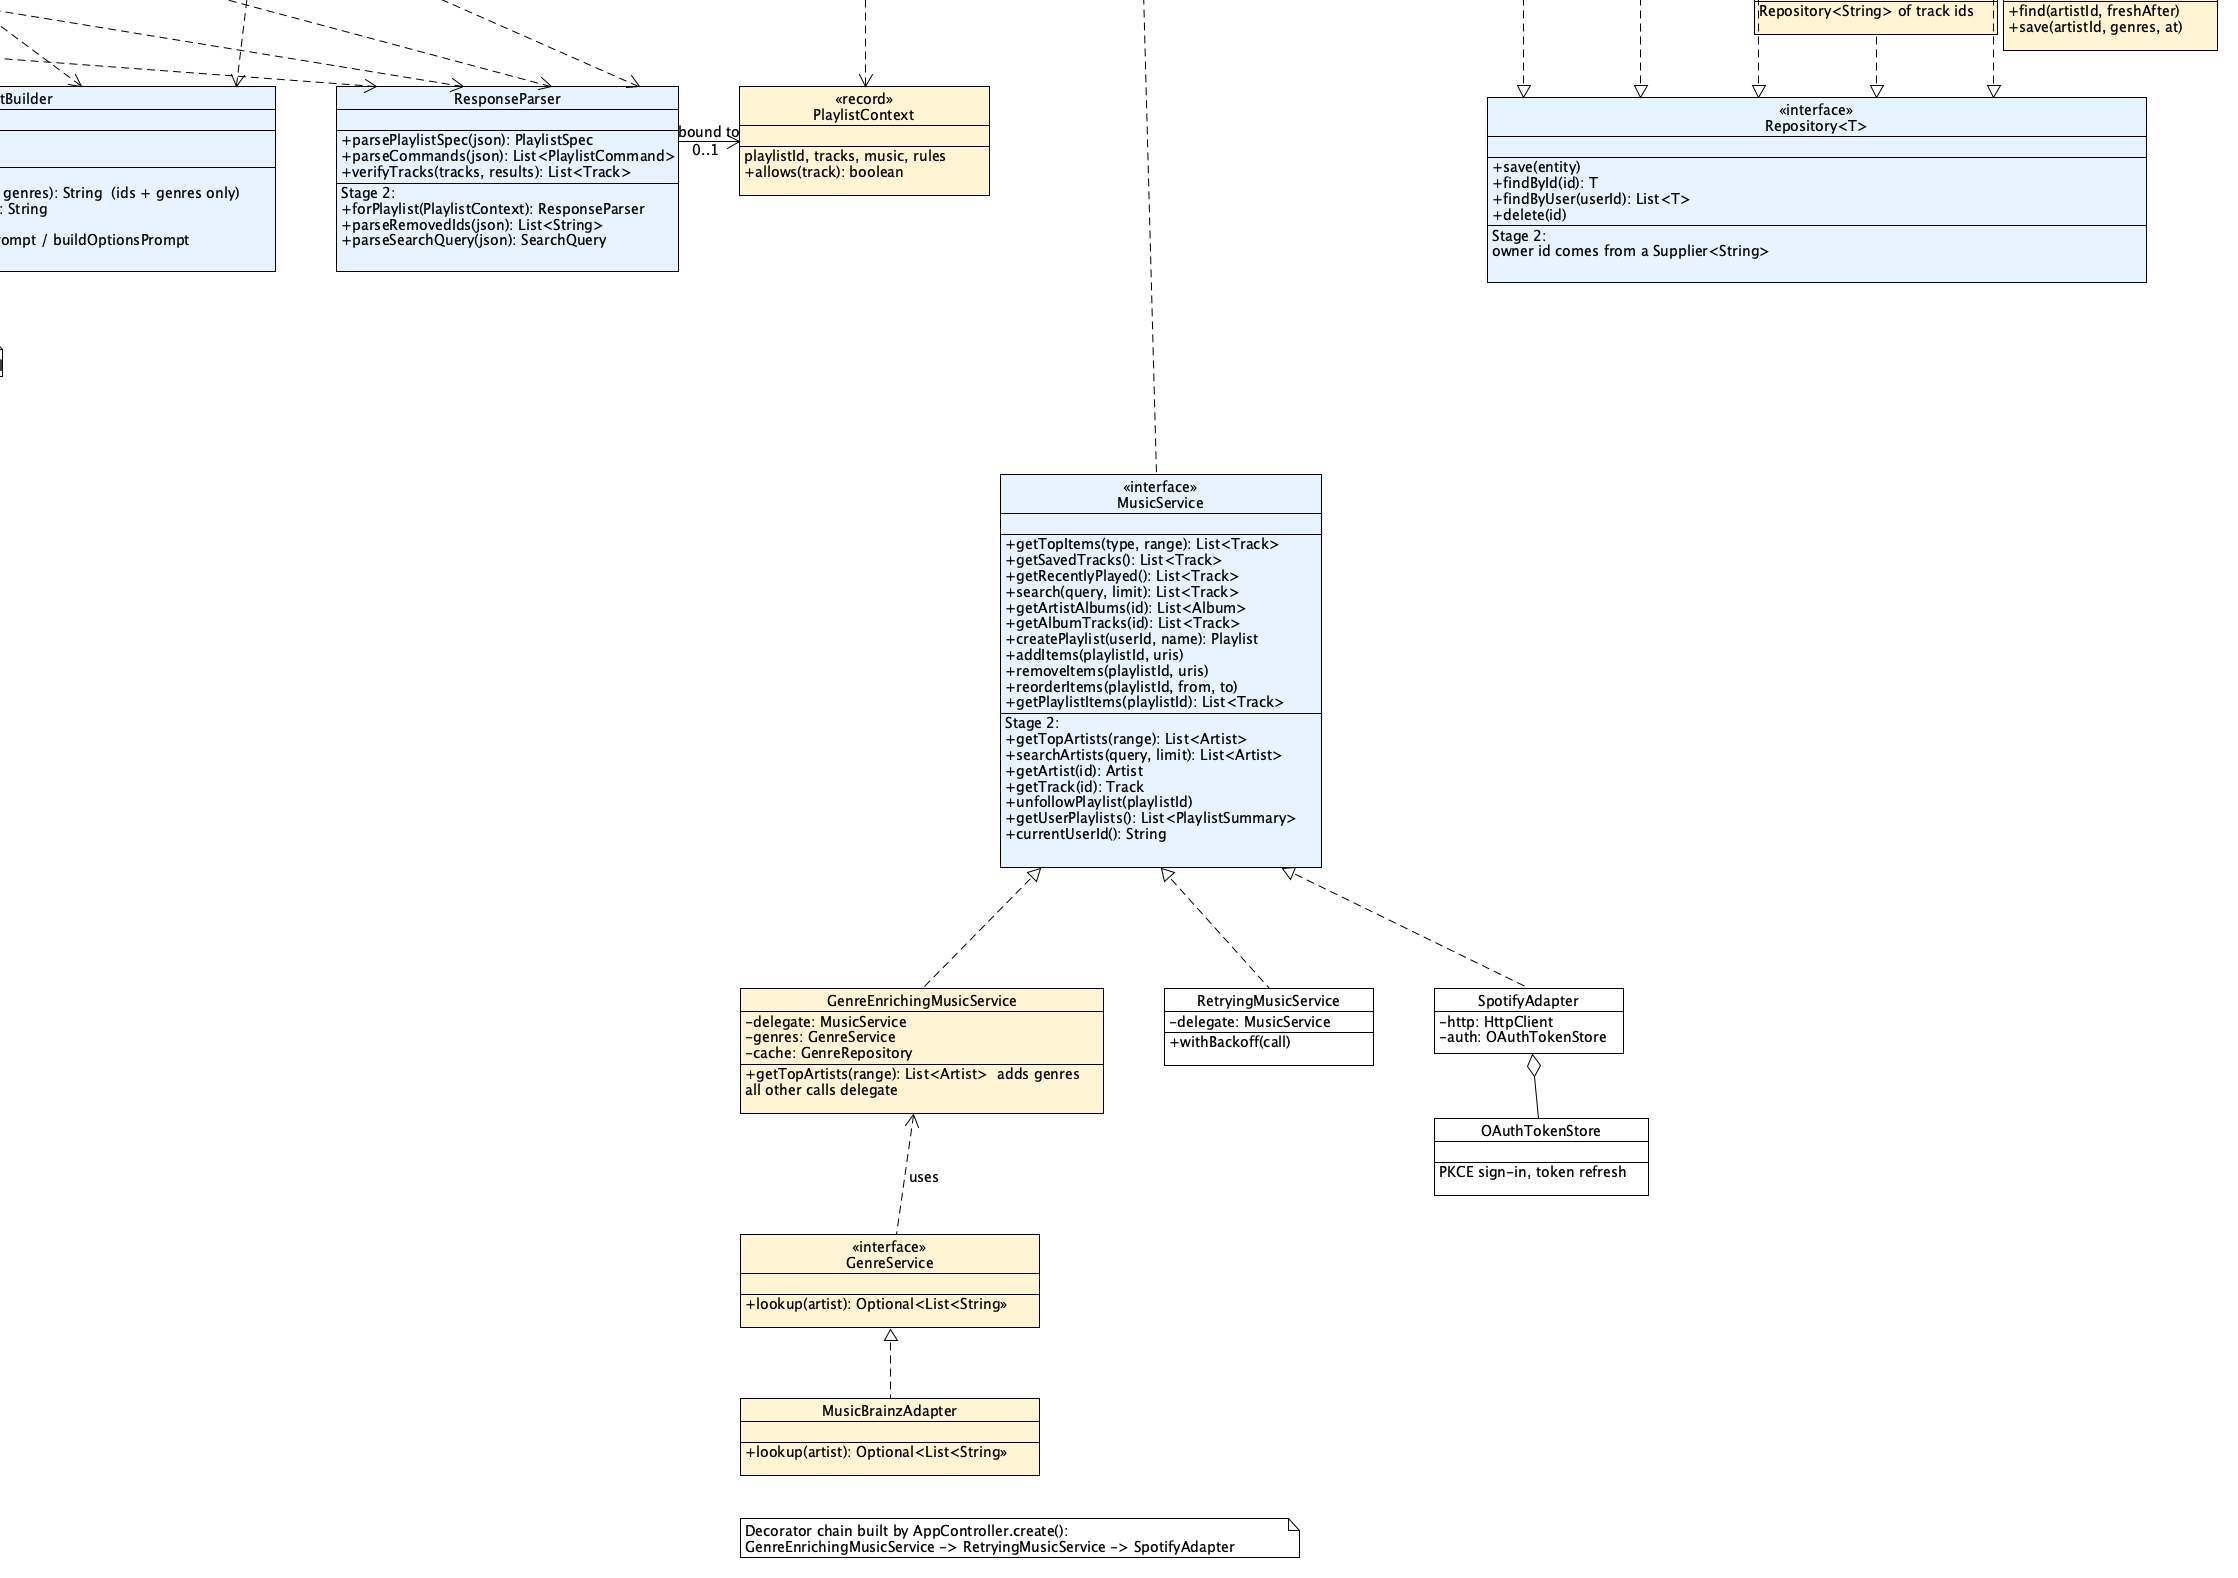
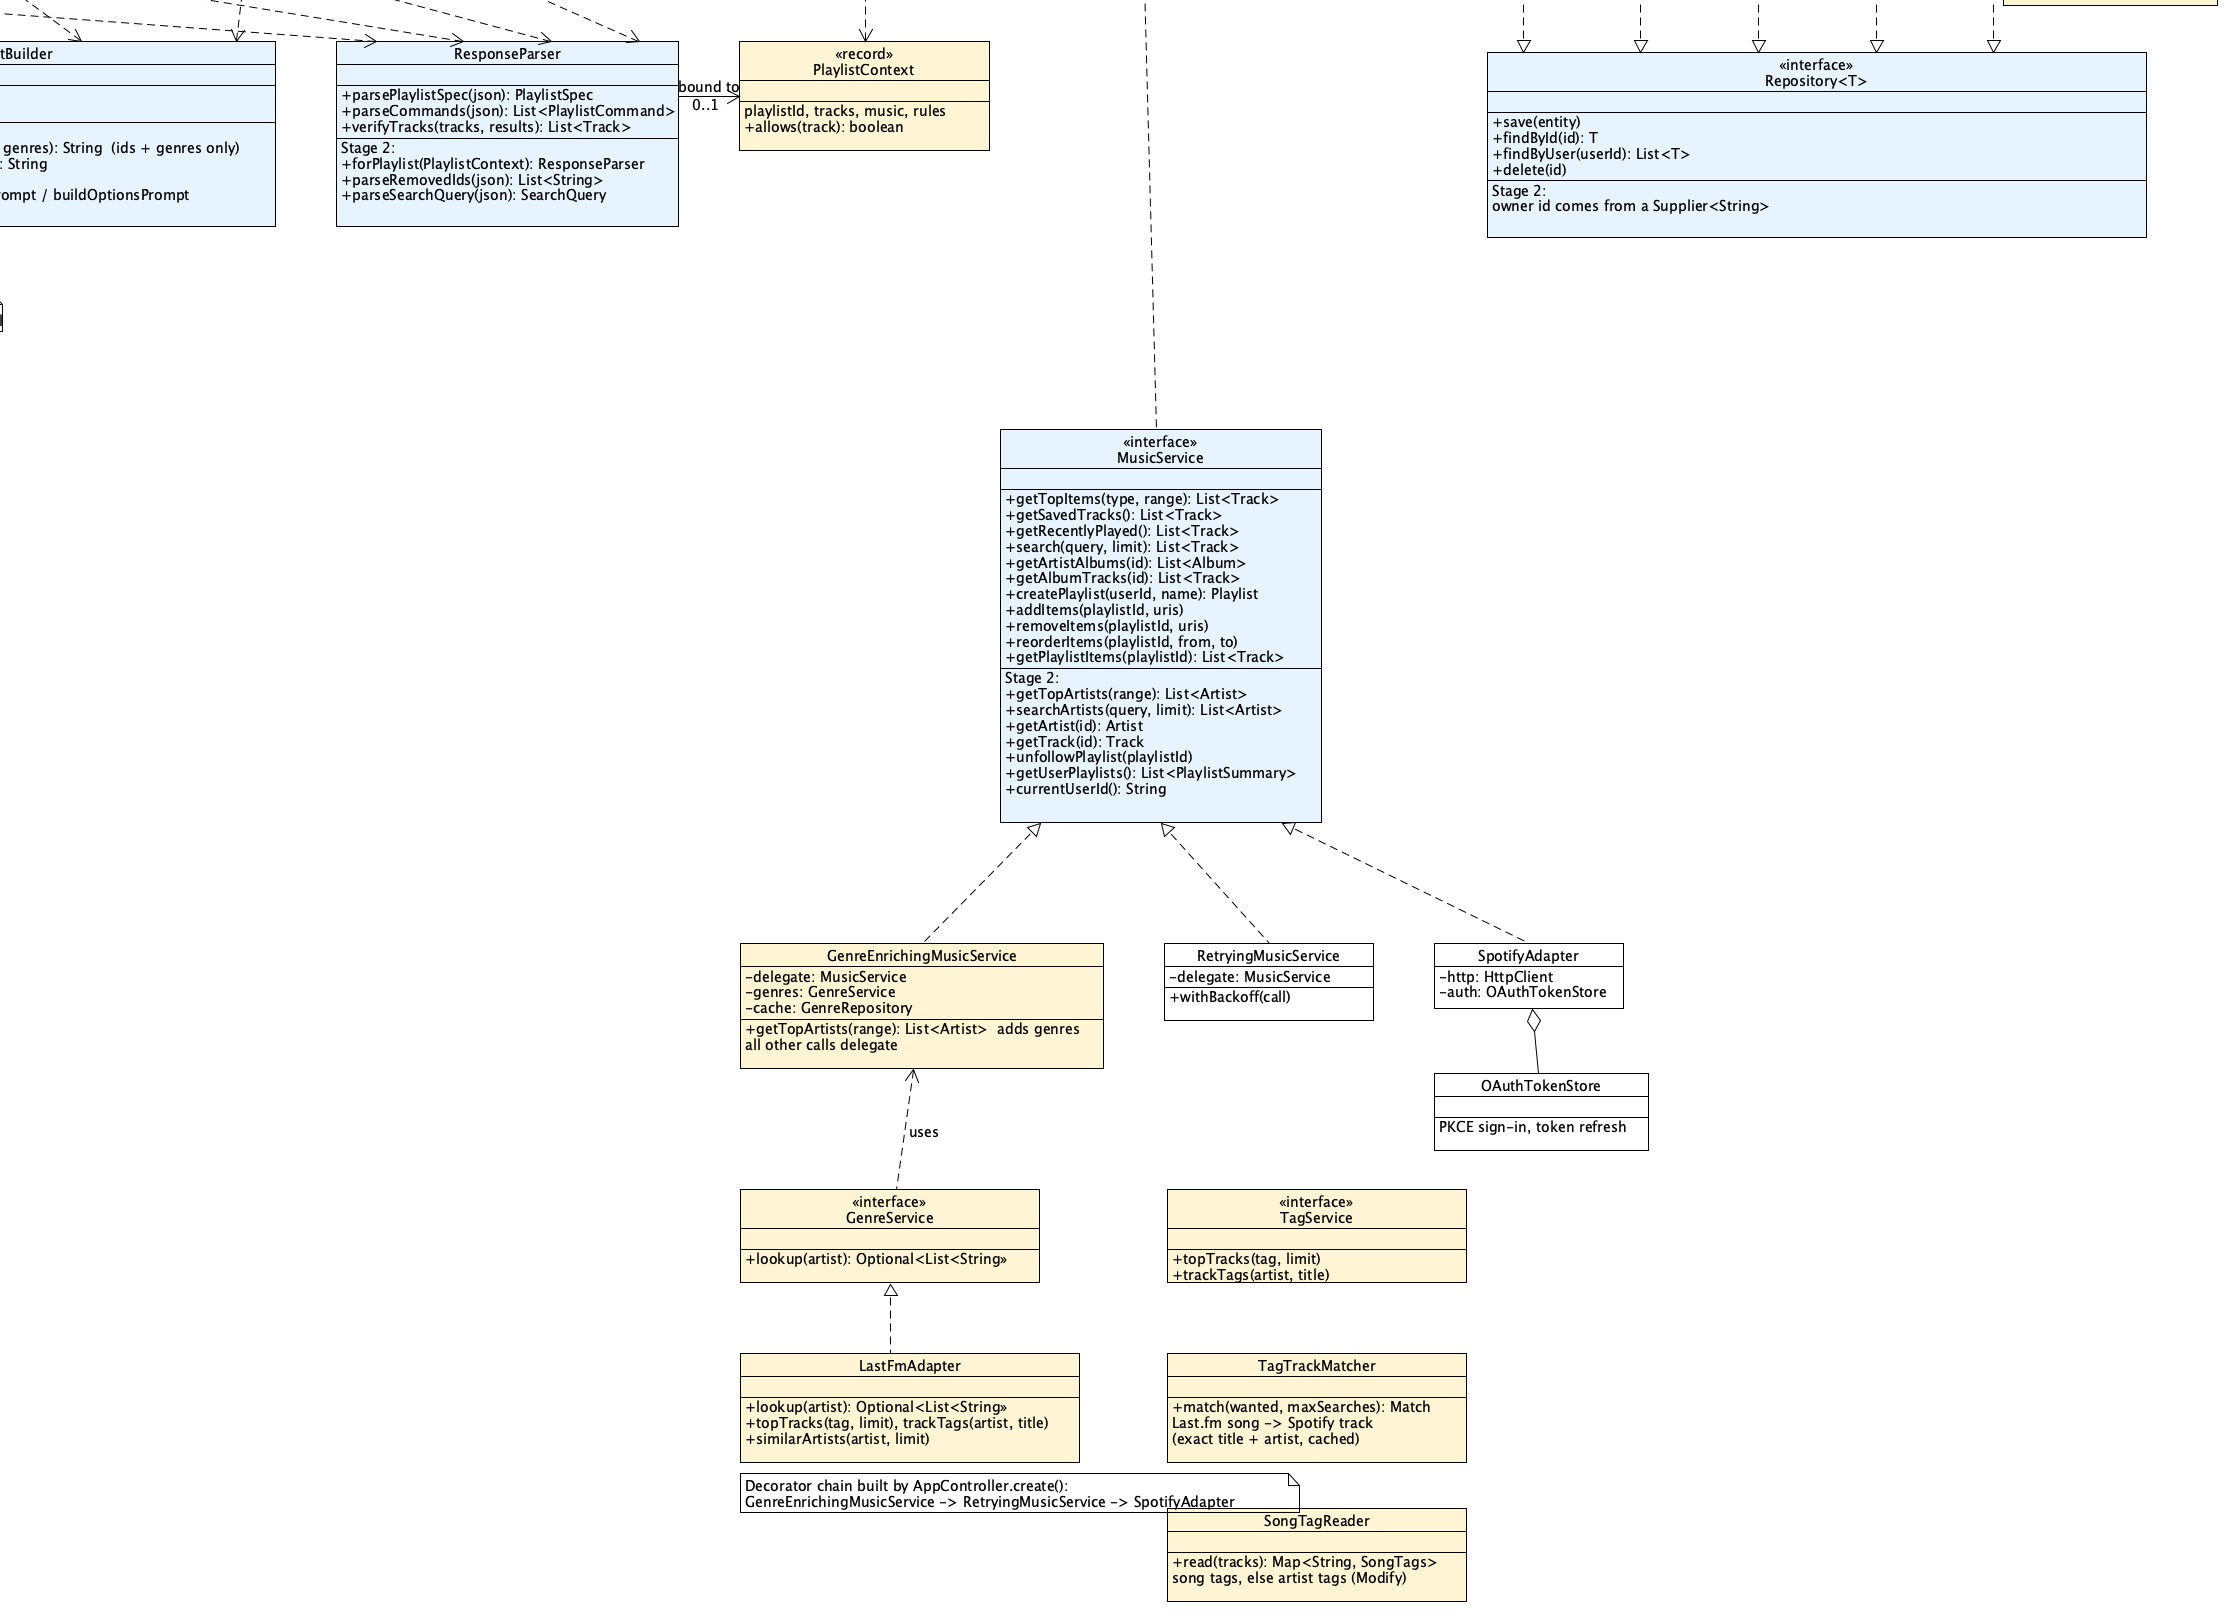
UML: LastFmAdapter replaces MusicBrainzAdapter; add TagService, TagTrackMatcher, SongTagReader

diff --git a/docs/diagrams/README.md b/docs/diagrams/README.md
@@ -25,13 +25,13 @@ authoritative diagrams for the report.
 
 | File | Diagram | What changed in Stage 2 |
 |------|---------|-------------------------|
-| `MusicMind_ClassArchitecture.uxf` | Class diagram: application and agent architecture | Rebuilt for readability. Every Stage 1 class and member is kept; Stage 2 members are listed under a "Stage 2:" line in the same box. New classes: `GenreEnrichingMusicService` (Decorator), `GenreService` / `MusicBrainzAdapter` (Adapter), `GoalFitReviewer`, `PlaylistEditor`, `PlaylistContext`, `Retrieval`, `TopItems`, `NegotiationHandler`, `Negotiator`, `RunContext`, `RunServices`, `StrategySelector`, `BatchCommand`, `RestoreSnapshotCommand`, `DeletePlaylistCommand`, `CandidateRepository`, `GenreRepository`. Pattern relations: `RecommendationEngine` holds a `RecommendationStrategy` and a `StrategySelector` (which selects the strategy); `PlaylistManager` holds its `PlaylistCommand` history; `ToolManager` holds its `Tool`s; `MusicAgentFacade` reaches `PlaylistManager` through `CreateSupport` and creates the `AgentSession` that runs the `SessionState` chain. `Planner`, `GoalFitReviewer`, `PlaylistEditor` and `ExplanationService` use `PromptBuilder` and `ResponseParser`; `Retrieval`, `PlaylistContext` and `TopItems` are linked to their users. Additive members on `AppController`, `MusicAgentFacade`, `MusicService`, `MemoryManager`, `PlaylistManager`, `PlaylistCommand`, `Planner`, `ConstraintChecker`, `RecommendationEngine`, `PromptBuilder`, `ResponseParser`, `AgentSession`, `SessionState`. |
+| `MusicMind_ClassArchitecture.uxf` | Class diagram: application and agent architecture | Rebuilt for readability. Every Stage 1 class and member is kept; Stage 2 members are listed under a "Stage 2:" line in the same box. New classes: `GenreEnrichingMusicService` (Decorator), `GenreService` and `TagService` / `LastFmAdapter` (Adapter; MusicBrainz until Nov 5), `TagTrackMatcher`, `SongTagReader`, `GoalFitReviewer`, `PlaylistEditor`, `PlaylistContext`, `Retrieval`, `TopItems`, `NegotiationHandler`, `Negotiator`, `RunContext`, `RunServices`, `StrategySelector`, `BatchCommand`, `RestoreSnapshotCommand`, `DeletePlaylistCommand`, `CandidateRepository`, `GenreRepository`. Pattern relations: `RecommendationEngine` holds a `RecommendationStrategy` and a `StrategySelector` (which selects the strategy); `PlaylistManager` holds its `PlaylistCommand` history; `ToolManager` holds its `Tool`s; `MusicAgentFacade` reaches `PlaylistManager` through `CreateSupport` and creates the `AgentSession` that runs the `SessionState` chain. `Planner`, `GoalFitReviewer`, `PlaylistEditor` and `ExplanationService` use `PromptBuilder` and `ResponseParser`; `Retrieval`, `PlaylistContext` and `TopItems` are linked to their users. Additive members on `AppController`, `MusicAgentFacade`, `MusicService`, `MemoryManager`, `PlaylistManager`, `PlaylistCommand`, `Planner`, `ConstraintChecker`, `RecommendationEngine`, `PromptBuilder`, `ResponseParser`, `AgentSession`, `SessionState`. |
 | `MusicMind_Domain.uxf` | Class diagram: domain model | New types `TopItems`, `PlaylistSummary`, `SnapshotInfo`, `TrendReport`, `RangeChange`, `SearchQuery`, `FeasibilityReport`, `Relaxation`, `DecisionTrace`; new fields such as `PlaylistSpec.blockedTracks`, `AgentPlan.searchTerms` / `seedGenres`, `AgentRequest.constraints` / `useCandidates`, `Track.artistNames`, `ListeningProfile.savedTrackIds` / `summary` / `range`, `ValidationResult.offending`; the two enumerations `RequestKind` and `Verdict` are drawn. |
 | `MusicMind_UseCase.uxf` | Use-case diagram | New UC14 Delete Playlist; UC07 now includes UC12 (an infeasible edit is negotiated); UC05 no longer uses the LLM (F4 never calls it). |
-| `MusicMind_SD01_CreatePlaylist.uxf` | Sequence: create playlist | Drawn as the State pattern runs it: Planning, Retrieving (with the goal review that sends only track ids and MusicBrainz genres), Selecting (pick review loop), Validating (loop back), Executing, Done. Shows the F11 negotiation handler, the token-expiry resume and the lines `AgentSession.run()` owns. |
+| `MusicMind_SD01_CreatePlaylist.uxf` | Sequence: create playlist | Drawn as the State pattern runs it: Planning, Retrieving (with the goal review that sends only track ids and Last.fm genres), Selecting (pick review loop), Validating (loop back), Executing, Done. Shows the F11 negotiation handler, the token-expiry resume and the lines `AgentSession.run()` owns. |
 | `MusicMind_SD02_ModifyPlaylist.uxf` | Sequence: modify playlist with undo | `PlaylistEditor` replaces the direct LLM and parser calls; adds the adjustment loop (re-plan when an edit would break a rule), the F11 choice, the snapshot saved before every modify and undo from the latest snapshot when the history is empty. |
-| `MusicMind_SD03_TasteProfile.uxf` | Sequence: view taste profile | Shows the stored profile (R5), genres from MusicBrainz through the decorator with its cache (R1, R18), `TopItems` and the labelled fallback summary. |
-| `MusicMind_SD04_Discover.uxf` | Sequence: discover music and give feedback | Preference merge, strategy choice, library tracks excluded, no LLM call; feedback goes from `AppController` straight to `MemoryManager`. |
+| `MusicMind_SD03_TasteProfile.uxf` | Sequence: view taste profile | Shows the stored profile (R5), genres from Last.fm through the decorator with its cache (R1, R18), `TopItems` and the labelled fallback summary. |
+| `MusicMind_SD04_Discover.uxf` | Sequence: discover music and give feedback | Preference merge, strategy choice, library tracks excluded, no LLM call, similar artists from Last.fm (Nov 5); feedback goes from `AppController` straight to `MemoryManager`. |
 
 ## Marking Stage 2 changes
 
